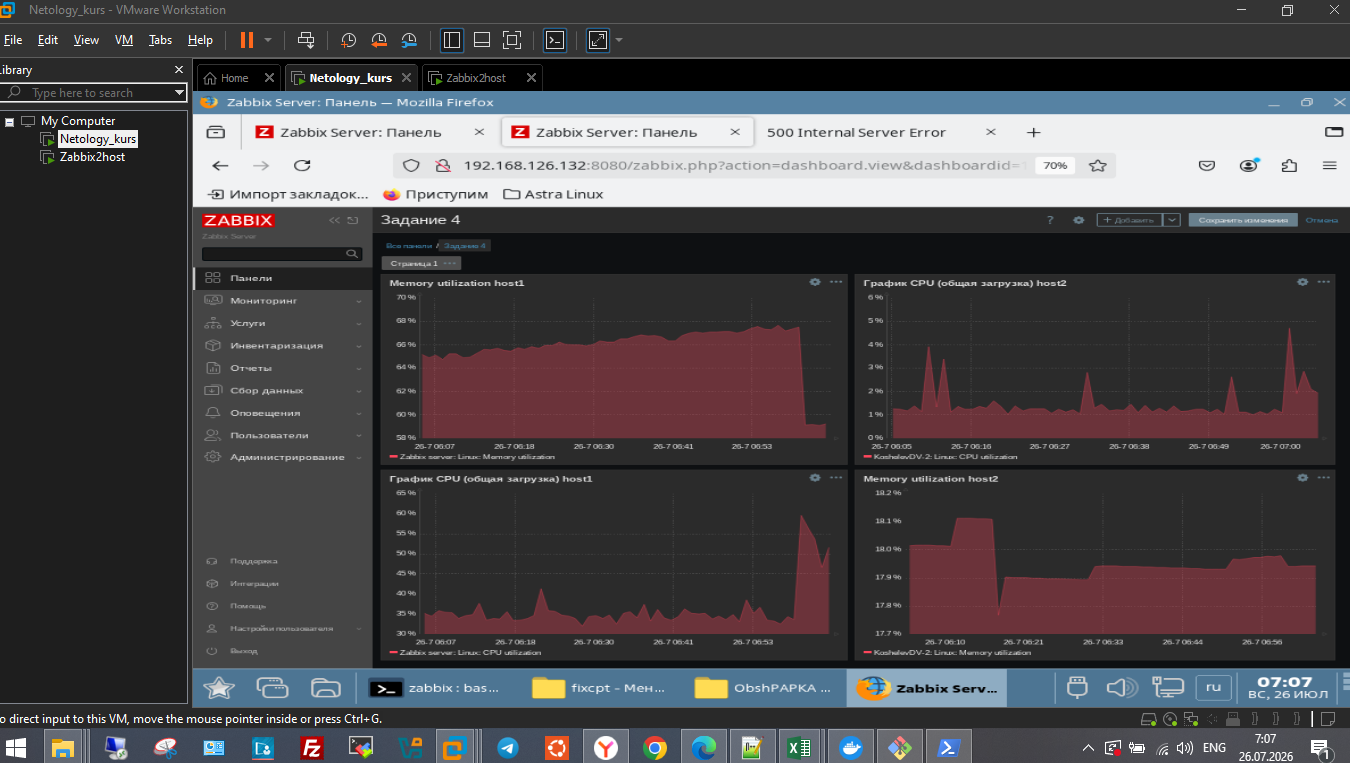
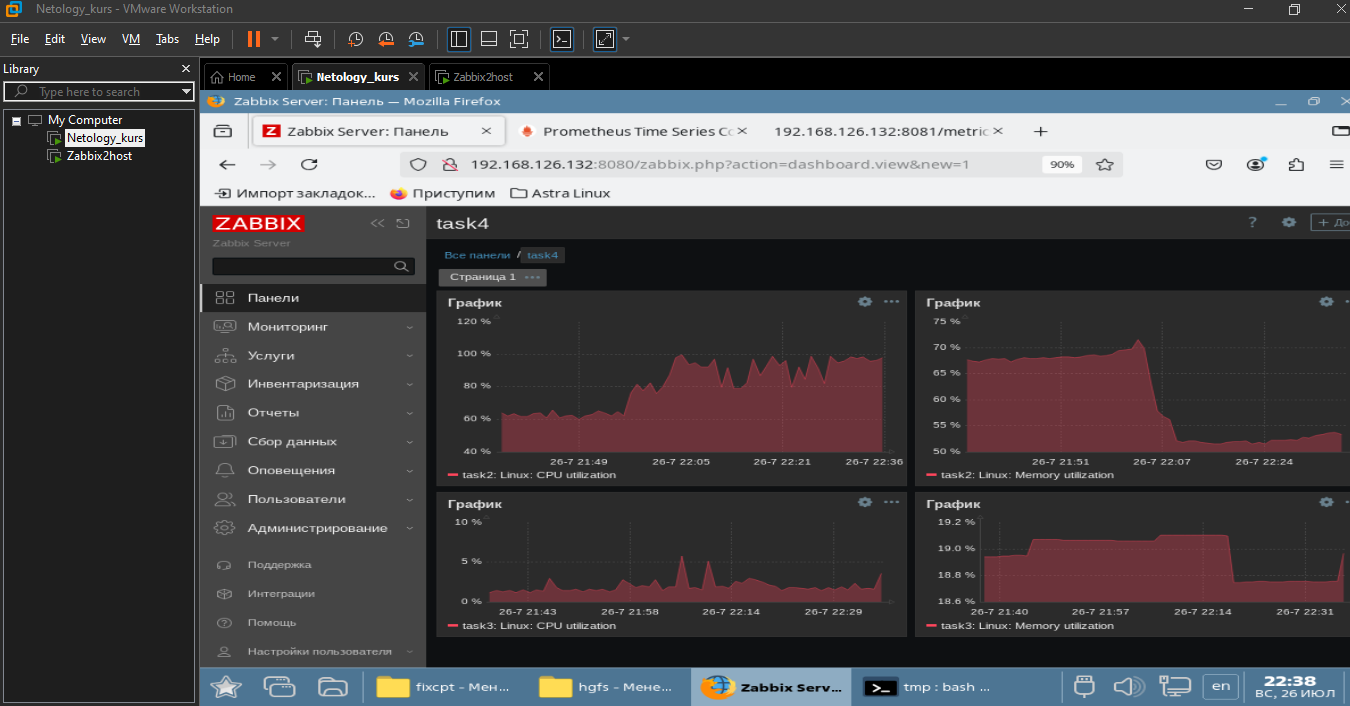
Выполнено домашнее задание scrin

diff --git a/README.md b/README.md
@@ -328,9 +328,9 @@ sudo stress-ng --cpu 4 --timeout 60
 Скриншот: Задание 4
 
 
-![task1](https://github.com/rooot-root/Zabbix_NETODOL2/blob/master/task1.png);
-![task2_3](https://github.com/rooot-root/Zabbix_NETODOL2/blob/master/task2_3.png);
-![task4](https://github.com/rooot-root/Zabbix_NETODOL2/blob/master/task4.png);
+![Задание 1](https://github.com/rooot-root/Zabbix_NETODOL2/blob/master/task1.png);
+![Задание 2_3](https://github.com/rooot-root/Zabbix_NETODOL2/blob/master/task2_3.png);
+![Задание 4](https://github.com/rooot-root/Zabbix_NETODOL2/blob/master/task4.png);
 
 
 
